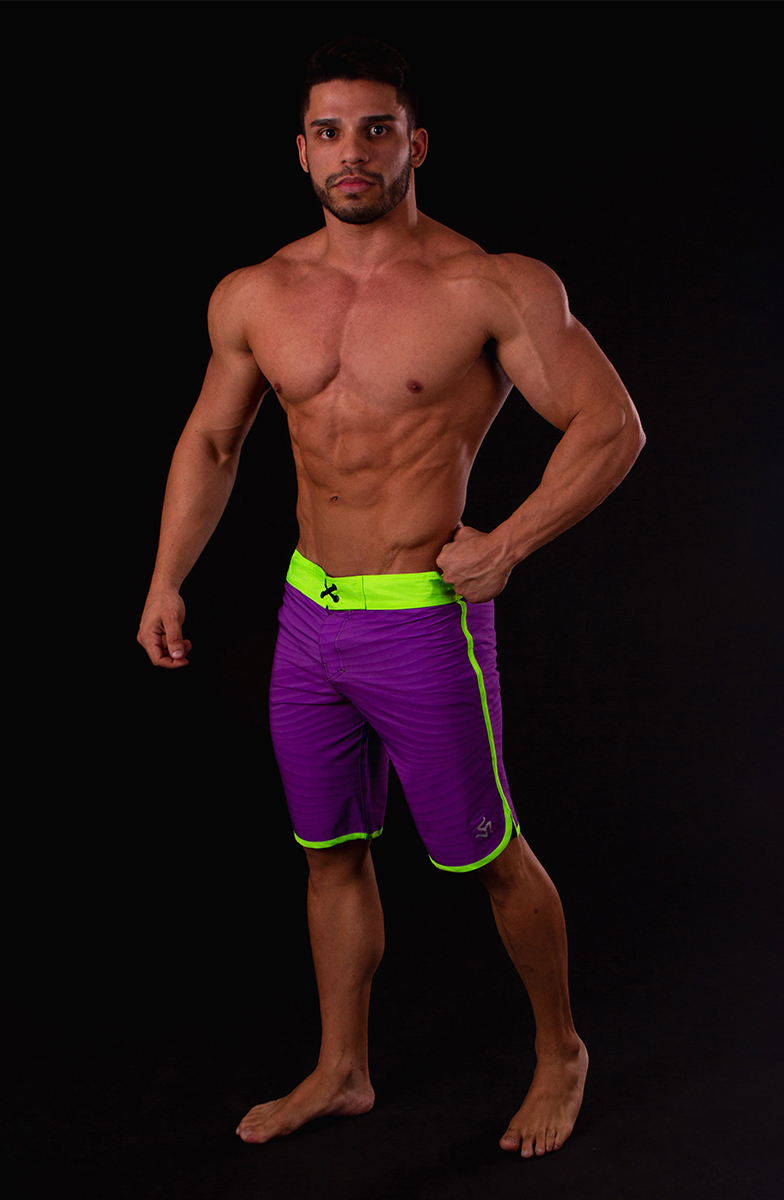
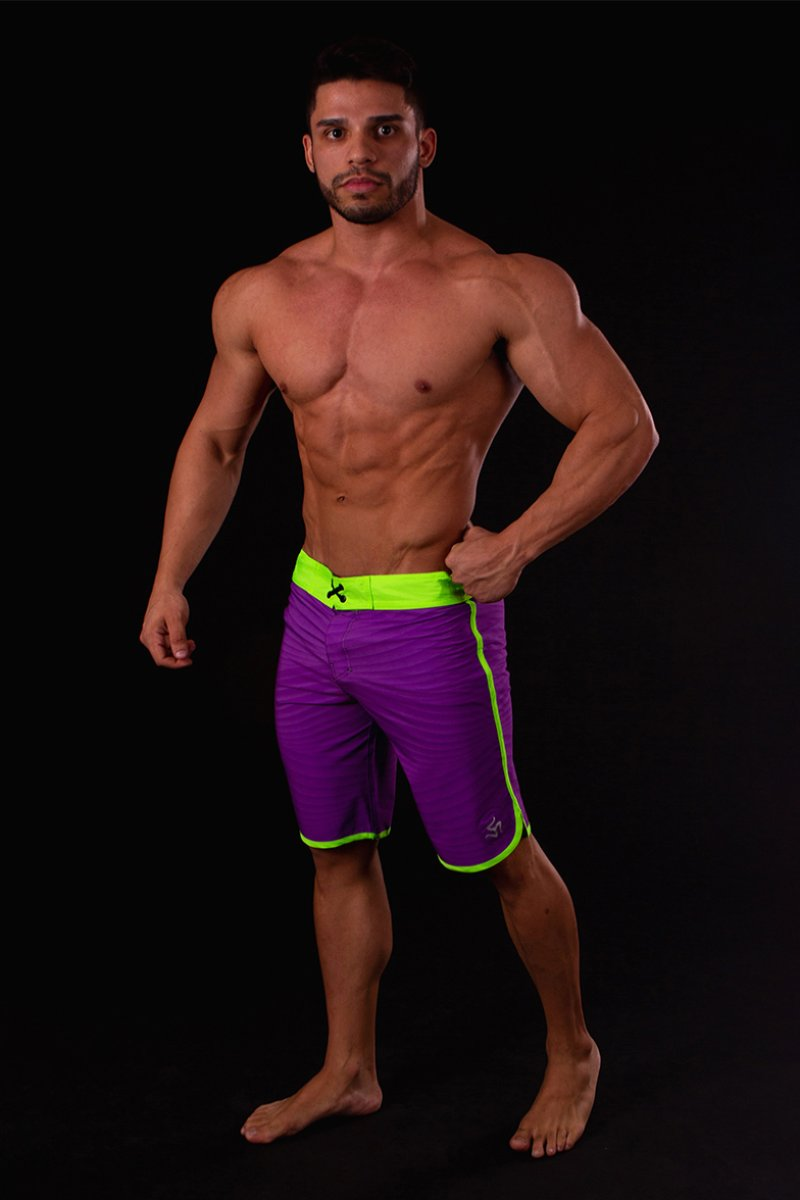
Alteração Estilo Carrossel
E adição de imagens para completar o carrossel.

diff --git a/src/components/carrossel/carrossel.jsx b/src/components/carrossel/carrossel.jsx
@@ -29,22 +29,167 @@ const Carrossel = ( ) => {
                 <Swiper slidesPerView={3} spaceBetween={50} navigation={true} pagination={{ clickable: false }} className='swiper-carrossel'>
                     <SwiperSlide className='swiper-slide-carrossel'>
                         <div className='container-foto'>
-                            <img className='image' src={blueStorm} alt=''/>
+                            <img className='image' src={sandStorm} alt=''/>
+                        </div>
+                        <div className='container-text'>
+                            <h5>PHYSIQUE SHORTS DESIGN</h5>
+                            <h2 className='h2-carrossel'>SANDSTORM</h2>
                         </div>
                     </SwiperSlide>
-                    <div className='container-text'>
-                        <h5>PHYSIQUE SHORTS DESIGN</h5>
-                        <h2 className='h2-carrossel'>BLUE STORM</h2>
-                    </div>
                     <SwiperSlide className='swiper-slide-carrossel'>
-                        <h1>Teste 02</h1>
+                        <div className='container-foto'>
+                            <img className='image' src={sunset} alt=''/>
+                        </div>
+                        <div className='container-text'>
+                            <h5>PHYSIQUE SHORTS DESIGN</h5>
+                            <h2 className='h2-carrossel'>SUNSET</h2>
+                        </div>
                     </SwiperSlide>
                     <SwiperSlide className='swiper-slide-carrossel'>
-                        <h1>Teste 03</h1>
+                        <div className='container-foto'>
+                            <img className='image' src={pinkStorm} alt=''/>
+                        </div>
+                        <div className='container-text'>
+                            <h5>PHYSIQUE SHORTS DESIGN</h5>
+                            <h2 className='h2-carrossel'>PINK STORM</h2>
+                        </div>
                     </SwiperSlide>
                     <SwiperSlide className='swiper-slide-carrossel'>
-                        <h1>Teste 04</h1>
+                        <div className='container-foto'>
+                            <img className='image' src={neonOcean} alt=''/>
+                        </div>
+                        <div className='container-text'>
+                            <h5>PHYSIQUE SHORTS DESIGN</h5>
+                            <h2 className='h2-carrossel'>NEON OCEAN</h2>
+                        </div>
                     </SwiperSlide>
+                    <SwiperSlide className='swiper-slide-carrossel'>
+                        <div className='container-foto'>
+                            <img className='image' src={marblestorme} alt=''/>
+                        </div>
+                        <div className='container-text'>
+                            <h5>PHYSIQUE SHORTS DESIGN</h5>
+                            <h2 className='h2-carrossel'>MARBLESTORME</h2>
+                        </div>
+                    </SwiperSlide>
+                    <SwiperSlide className='swiper-slide-carrossel'>
+                        <div className='container-foto'>
+                            <img className='image' src={purpleDream} alt=''/>
+                        </div>
+                        <div className='container-text'>
+                            <h5>PHYSIQUE SHORTS DESIGN</h5>
+                            <h2 className='h2-carrossel'>PURPLE DREAM</h2>
+                        </div>
+                    </SwiperSlide>
+                    <SwiperSlide className='swiper-slide-carrossel'>
+                        <div className='container-foto'>
+                            <img className='image' src={purpleOcean} alt=''/>
+                        </div>
+                        <div className='container-text'>
+                            <h5>PHYSIQUE SHORTS DESIGN</h5>
+                            <h2 className='h2-carrossel'>PURPLE OCEAN</h2>
+                        </div>
+                    </SwiperSlide>
+                    <SwiperSlide className='swiper-slide-carrossel'>
+                        <div className='container-foto'>
+                            <img className='image' src={strongRed} alt=''/>
+                        </div>
+                        <div className='container-text'>
+                            <h5>PHYSIQUE SHORTS DESIGN</h5>
+                            <h2 className='h2-carrossel'>STRONG RED</h2>
+                        </div>
+                    </SwiperSlide>
+                    <SwiperSlide className='swiper-slide-carrossel'>
+                        <div className='container-foto'>
+                            <img className='image' src={pinkOcean} alt=''/>
+                        </div>
+                        <div className='container-text'>
+                            <h5>PHYSIQUE SHORTS DESIGN</h5>
+                            <h2 className='h2-carrossel'>PINK OCEAN</h2>
+                        </div>
+                    </SwiperSlide>
+                    <SwiperSlide className='swiper-slide-carrossel'>
+                        <div className='container-foto'>
+                            <img className='image' src={redDiamond} alt=''/>
+                        </div>
+                        <div className='container-text'>
+                            <h5>PHYSIQUE SHORTS DESIGN</h5>
+                            <h2 className='h2-carrossel'>RED DIAMOND</h2>
+                        </div>
+                    </SwiperSlide>
+                    <SwiperSlide className='swiper-slide-carrossel'>
+                        <div className='container-foto'>
+                            <img className='image' src={lemonDiamond} alt=''/>
+                        </div>
+                        <div className='container-text'>
+                            <h5>PHYSIQUE SHORTS DESIGN</h5>
+                            <h2 className='h2-carrossel'>LEMON DIAMOND</h2>
+                        </div>
+                    </SwiperSlide>
+                    <SwiperSlide className='swiper-slide-carrossel'>
+                        <div className='container-foto'>
+                            <img className='image' src={purpleDiamond} alt=''/>
+                        </div>
+                        <div className='container-text'>
+                            <h5>PHYSIQUE SHORTS DESIGN</h5>
+                            <h2 className='h2-carrossel'>PURPLE DIAMOND</h2>
+                        </div>
+                    </SwiperSlide>
+                    <SwiperSlide className='swiper-slide-carrossel'>
+                        <div className='container-foto'>
+                            <img className='image' src={blueStorm} alt=''/>
+                        </div>
+                        <div className='container-text'>
+                            <h5>PHYSIQUE SHORTS DESIGN</h5>
+                            <h2 className='h2-carrossel'>BLUE STORM</h2>
+                        </div>
+                    </SwiperSlide>
+                    <SwiperSlide className='swiper-slide-carrossel'>
+                        <div className='container-foto'>
+                            <img className='image' src={debut} alt=''/>
+                        </div>
+                        <div className='container-text'>
+                            <h5>PHYSIQUE SHORTS DESIGN</h5>
+                            <h2 className='h2-carrossel'>DEBUT</h2>
+                        </div>
+                    </SwiperSlide>
+                    <SwiperSlide className='swiper-slide-carrossel'>
+                        <div className='container-foto'>
+                            <img className='image' src={deepOcean} alt=''/>
+                        </div>
+                        <div className='container-text'>
+                            <h5>PHYSIQUE SHORTS DESIGN</h5>
+                            <h2 className='h2-carrossel'>DEEP OCEAN</h2>
+                        </div>
+                    </SwiperSlide>
+                    <SwiperSlide className='swiper-slide-carrossel'>
+                        <div className='container-foto'>
+                            <img className='image' src={mantela} alt=''/>
+                        </div>
+                        <div className='container-text'>
+                            <h5>PHYSIQUE SHORTS DESIGN</h5>
+                            <h2 className='h2-carrossel'>MANTELA</h2>
+                        </div>
+                    </SwiperSlide>
+                    <SwiperSlide className='swiper-slide-carrossel'>
+                        <div className='container-foto'>
+                            <img className='image' src={ohaio} alt=''/>
+                        </div>
+                        <div className='container-text'>
+                            <h5>PHYSIQUE SHORTS DESIGN</h5>
+                            <h2 className='h2-carrossel'>OHAIO</h2>
+                        </div>
+                    </SwiperSlide>
+                    <SwiperSlide className='swiper-slide-carrossel'>
+                        <div className='container-foto'>
+                            <img className='image' src={tesla} alt=''/>
+                        </div>
+                        <div className='container-text'>
+                            <h5>PHYSIQUE SHORTS DESIGN</h5>
+                            <h2 className='h2-carrossel'>TESLA</h2>
+                        </div>
+                    </SwiperSlide>
+                    
                 </Swiper>
             </div>
         </>

diff --git a/src/components/carrossel/carrossel.css b/src/components/carrossel/carrossel.css
@@ -2,10 +2,13 @@
     padding: 32px;
 }
 .swiper-slide-carrossel {
-    display: flex;
-    justify-content: center;
+    
+    
+}
+.container-foto {
     border: 2px solid #DE155E;
     border-radius: 5px;
+
 }
 .swiper-pagination-bullet-active {
     background-color: #DE155E;
